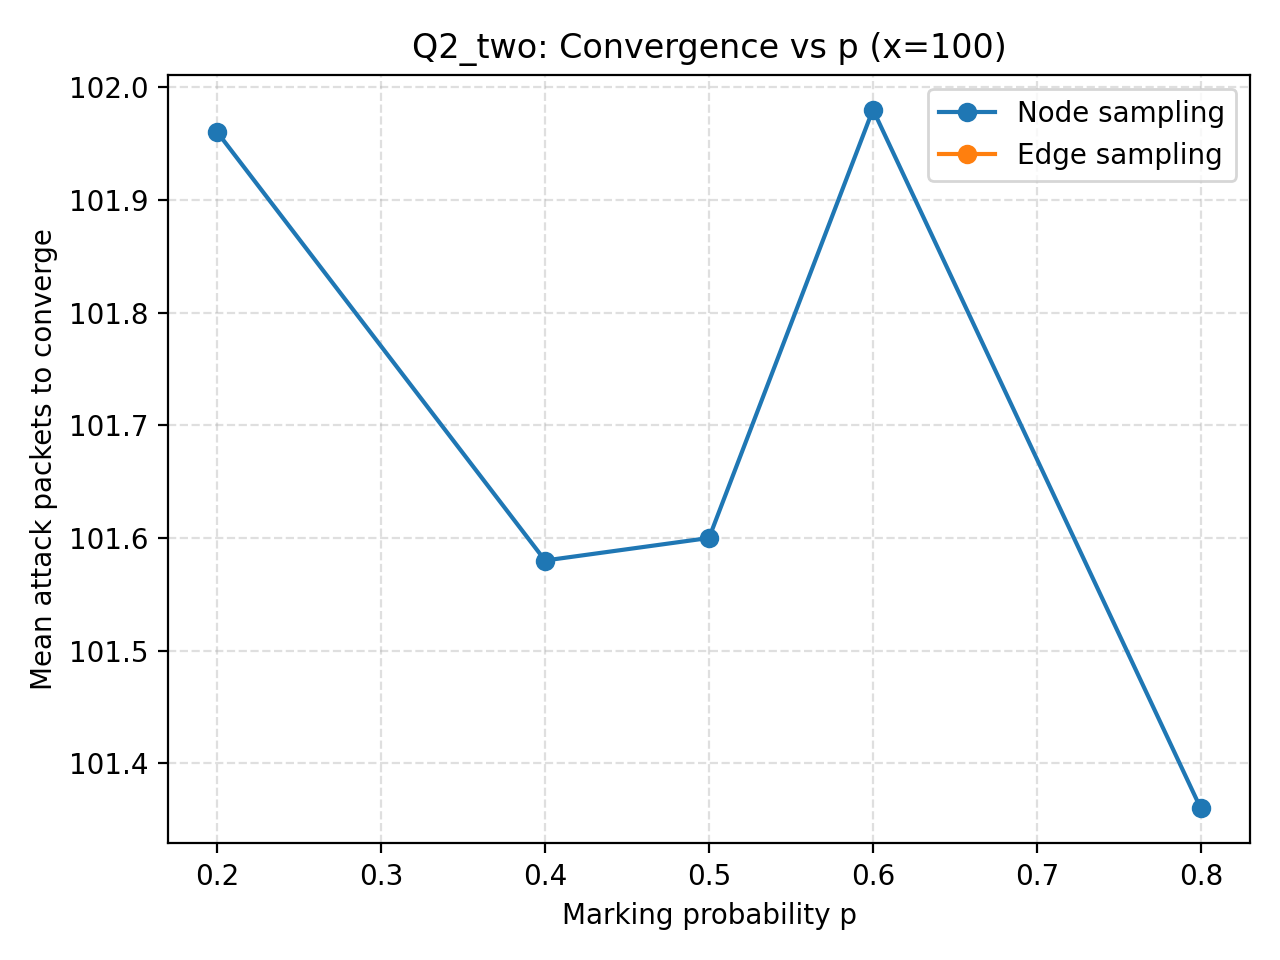
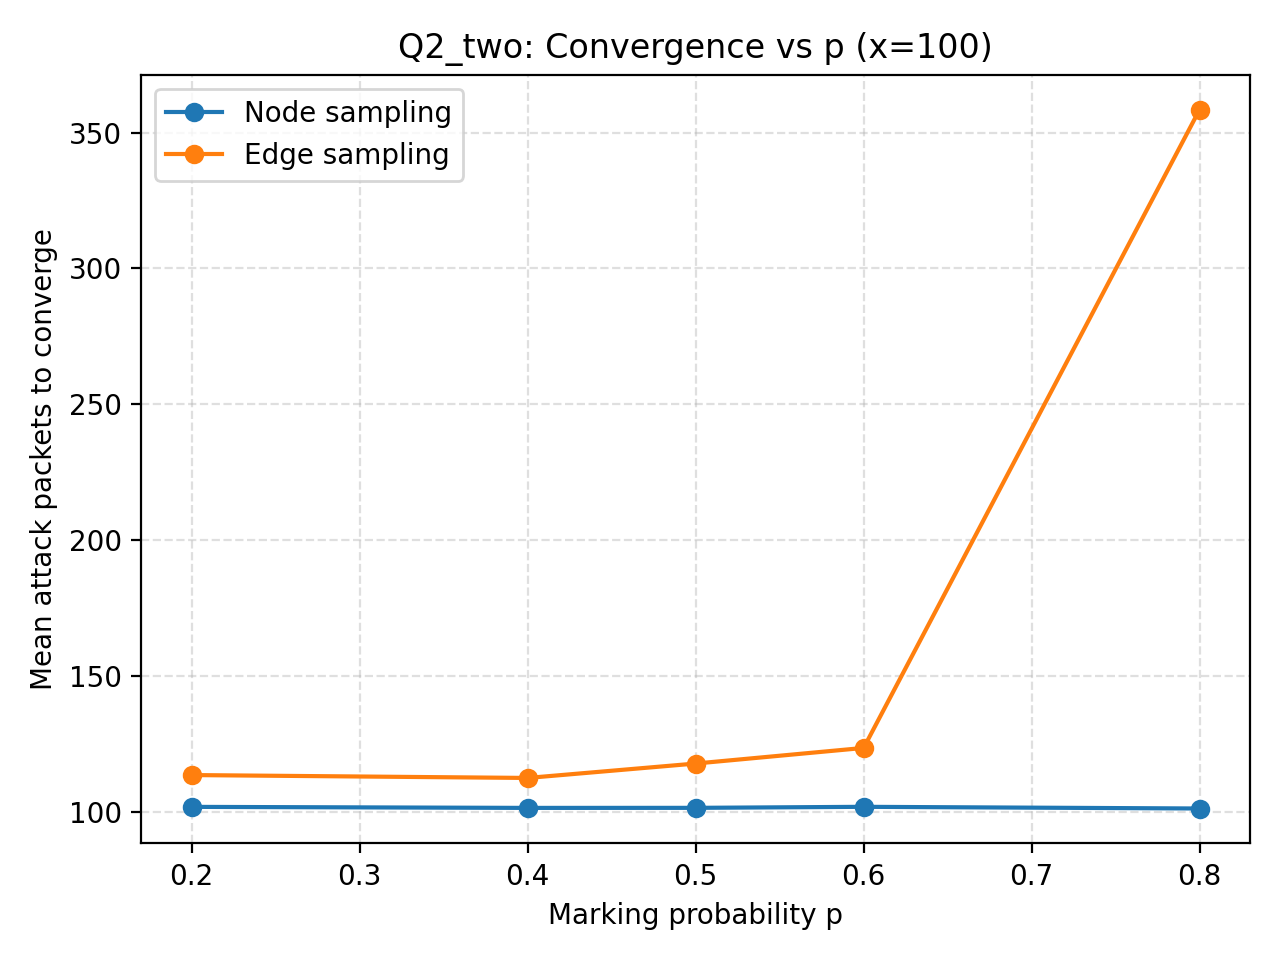
Fixed bugs and more plots

diff --git a/ppm_traceback/src/ppm.py b/ppm_traceback/src/ppm.py
@@ -246,10 +246,109 @@ def edge_build_graph(samples: list[tuple[int | None, int | None, int]], victim: 
     return H
 
 
+def _edge_distance_index_to_victim(H: nx.DiGraph, victim: int = 0) -> dict[int, int]:
+    """Return distance *index* to victim for each node in H.
+
+    Our code stores edge tuples under key d where:
+      d == 0 means the router is directly adjacent to the victim.
+
+    In a directed graph where edges point toward the victim (u -> v),
+    the shortest path length L(u,victim) satisfies:
+      L == 1 for an adjacent router.
+
+    So we define the distance *index* as: idx(u) = L(u,victim) - 1.
+    """
+    # Compute shortest path length to victim for all nodes that can reach victim.
+    # Do BFS from victim on the *reversed* graph.
+    rev = H.reverse(copy=False)
+    lengths = nx.single_source_shortest_path_length(rev, victim)
+    idx: dict[int, int] = {}
+    for n, L in lengths.items():
+        if n == victim:
+            continue
+        idx[n] = L - 1
+    return idx
+
+
+def edge_build_pruned_graph(samples: list[tuple[int | None, int | None, int]], victim: int = 0) -> nx.DiGraph:
+    """Build and prune the edge-reconstruction graph.
+
+    This implements the key step in the edge-sampling traceback algorithm:
+    remove any edge (x,y,d) whose recorded distance d does not match the
+    distance from x to the victim in the reconstructed graph.
+
+    We also enforce that edges go one step closer to the victim.
+    """
+    # First build a graph that retains the sampled distance d per edge.
+    by_d = edges_by_distance(samples, victim=victim)
+    H = nx.DiGraph()
+    H.add_node(victim)
+
+    # Store all candidate directed edges with their claimed distance index.
+    # d == 0 corresponds to edges (u -> victim).
+    edges_with_d: list[tuple[int, int, int]] = []
+    for d, edges in by_d.items():
+        for u, v in edges:
+            edges_with_d.append((u, v, d))
+            H.add_edge(u, v)
+
+    # Iteratively prune until stable.
+    changed = True
+    while changed:
+        changed = False
+        idx = _edge_distance_index_to_victim(H, victim=victim)
+        to_remove: list[tuple[int, int]] = []
+
+        for u, v, d in edges_with_d:
+            if not H.has_edge(u, v):
+                continue
+            # If u cannot reach victim in current graph, prune.
+            if u not in idx:
+                to_remove.append((u, v))
+                continue
+
+            # Distance index must match exactly.
+            if idx[u] != d:
+                to_remove.append((u, v))
+                continue
+
+            # Edge must move one step closer toward victim.
+            if v == victim:
+                if d != 0:
+                    to_remove.append((u, v))
+                continue
+            if v not in idx:
+                to_remove.append((u, v))
+                continue
+            if idx[v] != d - 1:
+                to_remove.append((u, v))
+
+        if to_remove:
+            H.remove_edges_from(to_remove)
+            changed = True
+
+    return H
+
+
 def edge_guess_attackers_from_graph(H: nx.DiGraph, victim: int = 0) -> list[int]:
     """
-    Attackers appear as 'farthest' nodes (no outgoing edge toward victim) in the reconstructed graph.
-    Returns candidate leaves (excluding victim).
+    Attackers appear as *sources* in the reconstructed graph.
+    Since edges point toward the victim (u -> v), attackers have in_degree == 0.
+    Returns candidate routers (excluding victim).
     """
-    candidates = [n for n in H.nodes if n != victim and H.out_degree(n) == 0]
+    candidates = [n for n in H.nodes if n != victim and H.in_degree(n) == 0]
     return sorted(candidates)
+
+
+def edge_guess_single_attacker_from_graph(H: nx.DiGraph, victim: int = 0) -> int | None:
+    """Guess a single attacker from a pruned reconstruction graph.
+
+    Strategy:
+      1) take all source candidates (in_degree == 0)
+      2) choose the farthest (largest distance index to victim)
+    """
+    sources = edge_guess_attackers_from_graph(H, victim=victim)
+    if not sources:
+        return None
+    idx = _edge_distance_index_to_victim(H, victim=victim)
+    return max(sources, key=lambda n: idx.get(n, -1))

diff --git a/ppm_traceback/src/experiment.py b/ppm_traceback/src/experiment.py
@@ -7,7 +7,7 @@ from src.ppm import (
     node_reconstruct_order, node_guess_attacker_leaf,
     edges_by_distance, edge_reconstruct_path,
     node_guess_two_attackers,
-    edge_build_graph, edge_guess_attackers_from_graph,
+    edge_build_pruned_graph, edge_guess_attackers_from_graph, edge_guess_single_attacker_from_graph,
 )
 
 NORMAL_RATE = 1  # normal leaves send 1 packet per tick
@@ -65,11 +65,10 @@ def run_trial_one_attacker(G: nx.DiGraph, p: float, x: int, seed: int, max_attac
                 if guess == attacker:
                     node_conv = attack_packets_seen
 
-            # Check edge convergence
+            # Check edge convergence (pruned reconstruction graph)
             if edge_conv is None:
-                by_d = edges_by_distance(edge_obs, victim=0)
-                path = edge_reconstruct_path(by_d, victim=0)
-                guess_edge = path[0] if path else None
+                H = edge_build_pruned_graph(edge_obs, victim=0)
+                guess_edge = edge_guess_single_attacker_from_graph(H, victim=0)
                 if guess_edge == attacker:
                     edge_conv = attack_packets_seen
 
@@ -180,12 +179,12 @@ def run_trial_two_attackers(G: nx.DiGraph, p: float, x: int, seed: int, max_atta
                     if set(guesses) == true_set:
                         node_conv = attack_packets_seen
 
-                # Edge convergence: build reconstructed tree and guess leaves
+                # Edge convergence: prune + guess sources
                 if edge_conv is None:
-                    H = edge_build_graph(edge_obs, victim=0)
+                    H = edge_build_pruned_graph(edge_obs, victim=0)
                     guesses_edge = edge_guess_attackers_from_graph(H, victim=0)
-                    # If we recovered at least the two true attackers as leaves, call success
-                    if true_set.issubset(set(guesses_edge)):
+                    # Converged when we recover exactly the true attacker set (no missing, no extras).
+                    if set(guesses_edge) == true_set:
                         edge_conv = attack_packets_seen
 
                 if node_conv is not None and edge_conv is not None:

diff --git a/ppm_traceback/src/main.py b/ppm_traceback/src/main.py
@@ -3,7 +3,6 @@
 # CS 645 Assignment 1: Probabilistic Packet Marking with Node and Edge Sampling
 # Resources: 
 
-
 import matplotlib.pyplot as plt
 from src.topology import load_topology, validate_tree_topology
 from src.experiment import run_grid_one_attacker, run_grid_two_attackers
